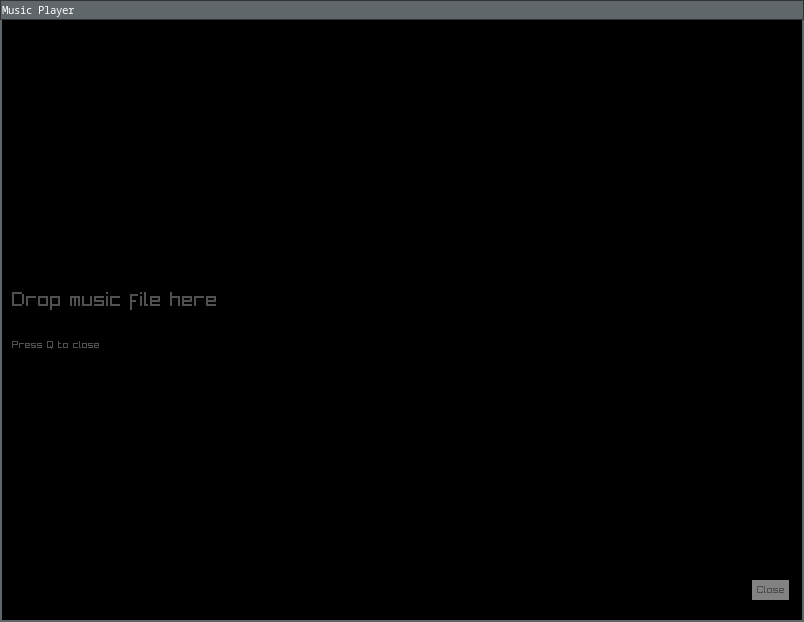
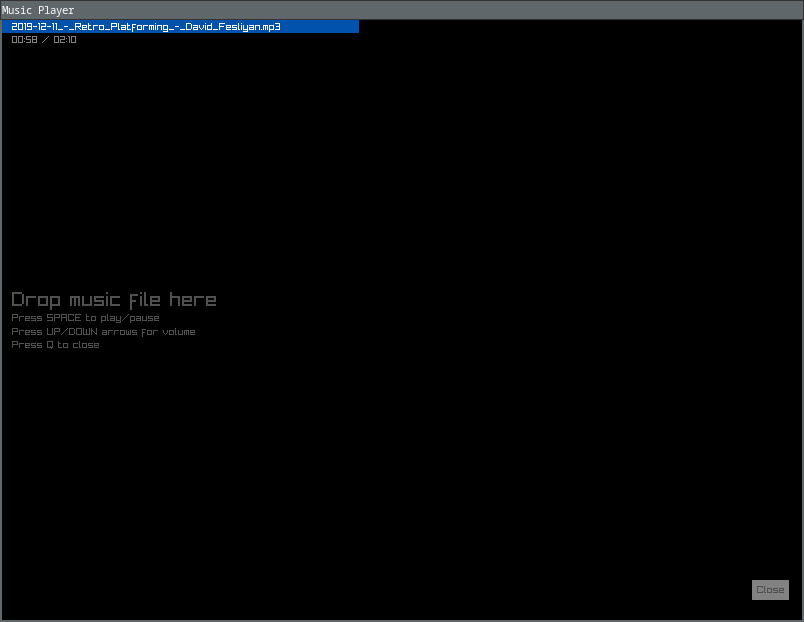
Show music time bar

Changed region(s): [[0.0, 0.0305, 0.4664, 0.0611], [0.0311, 0.4887, 0.1866, 0.5498], [0.2177, 0.5193, 0.2488, 0.5498]]

diff --git a/player.c b/player.c
@@ -100,6 +100,7 @@ int main(void)
             PlayMusicStream(musica);
             music_playing = true;
             UnloadDroppedFiles(paths);
+            SetWindowFocused();
         }
         if (music_loaded)
         {
@@ -132,15 +133,23 @@ int main(void)
 
             if (music_loaded)
             {
-                // draw music length and amount played
-                DrawText(music_name, 10, 10, 10, BUTTON_TEXT_COLOR);
-                char total_time[25] = {'\0'};
-                int music_time = GetMusicTimeLength(musica);
-                int played_time = GetMusicTimePlayed(musica);
-                sprintf(total_time, "Duration: %02d:%02d / %02d:%02d", played_time/60, played_time%60, music_time/60, music_time%60);
-                int text_size = MeasureText(total_time, TEXT_SIZE/2.);
-                DrawText(total_time, WINDOW_WIDTH/2.-text_size/2., WINDOW_HEIGHT-60, TEXT_SIZE/2., TEXT_COLOR);
+                float music_time = GetMusicTimeLength(musica);
+                float played_time = GetMusicTimePlayed(musica);
 
+                // draw music length and amount played
+                {
+                    char total_time[15] = {'\0'};
+                    sprintf(total_time, "%02d:%02d / %02d:%02d", (int)played_time/60, (int)played_time%60, (int)music_time/60, (int)music_time%60);
+                    DrawText(total_time, 10, 15, TEXT_SIZE/2., TEXT_COLOR);
+                }
+                // draw music length/played bar with music name
+                {
+                    float percentage = played_time/music_time;
+                    DrawRectangleRec((Rectangle){ 0, 0, WINDOW_WIDTH*percentage, 13}, DARKBLUE);
+                    int text_size = MeasureText(music_name, TEXT_SIZE/2.);
+                    // DrawText(music_name, WINDOW_WIDTH/2.-text_size/2., 10, 5, WHITE);
+                    DrawText(music_name, 10, 2, 5, WHITE);
+                }
                 // draw volume info for a fixed time after volume change
                 if (volume_counter > 0)
                 {
@@ -155,7 +164,7 @@ int main(void)
         }
         EndDrawing();
     }
-
+    UnloadMusicStream(musica);
     CloseWindow();
     CloseAudioDevice();
 
